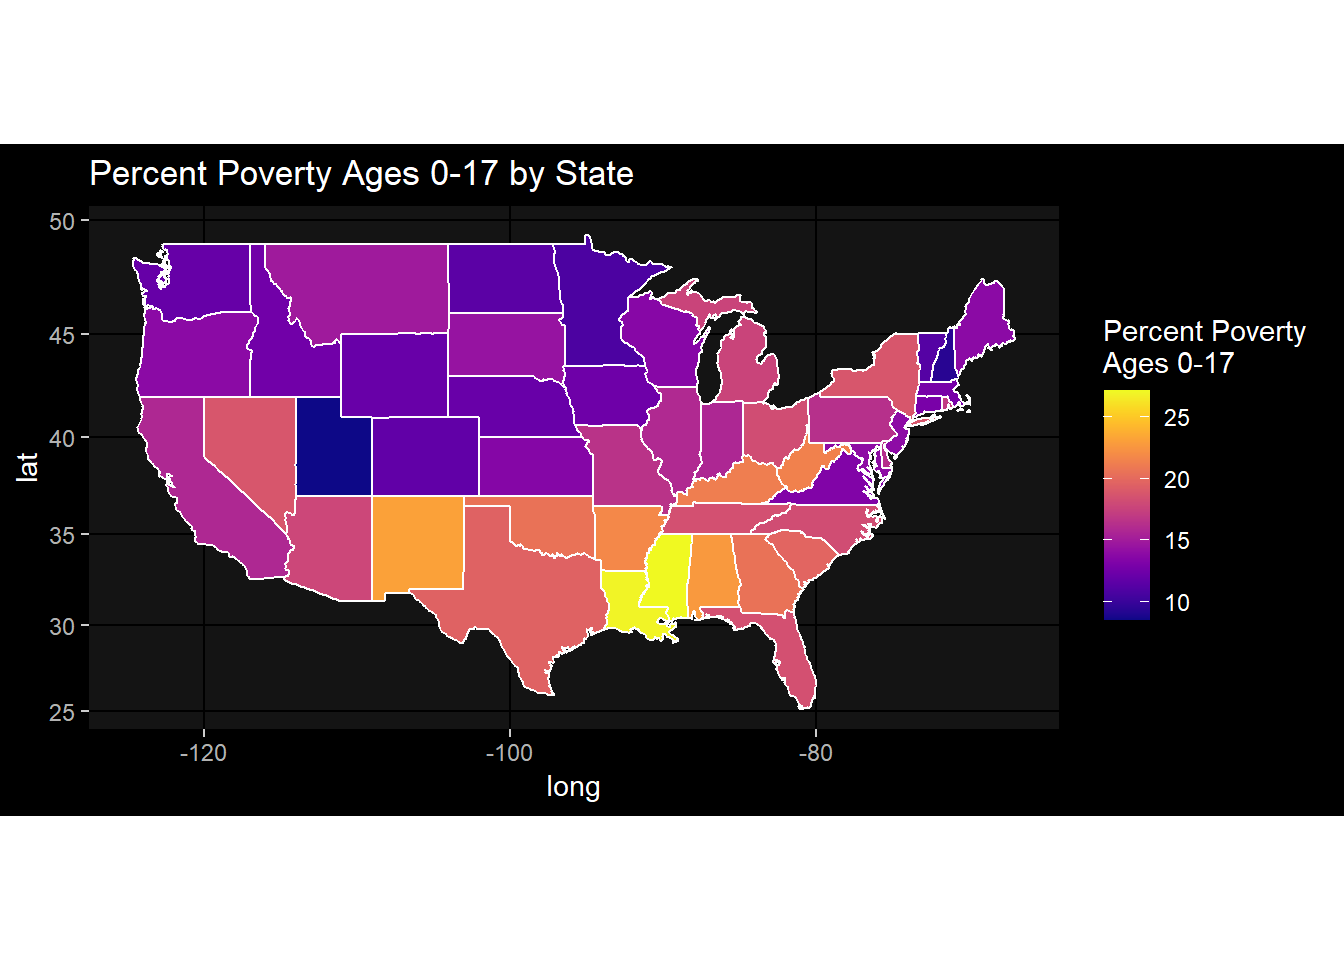
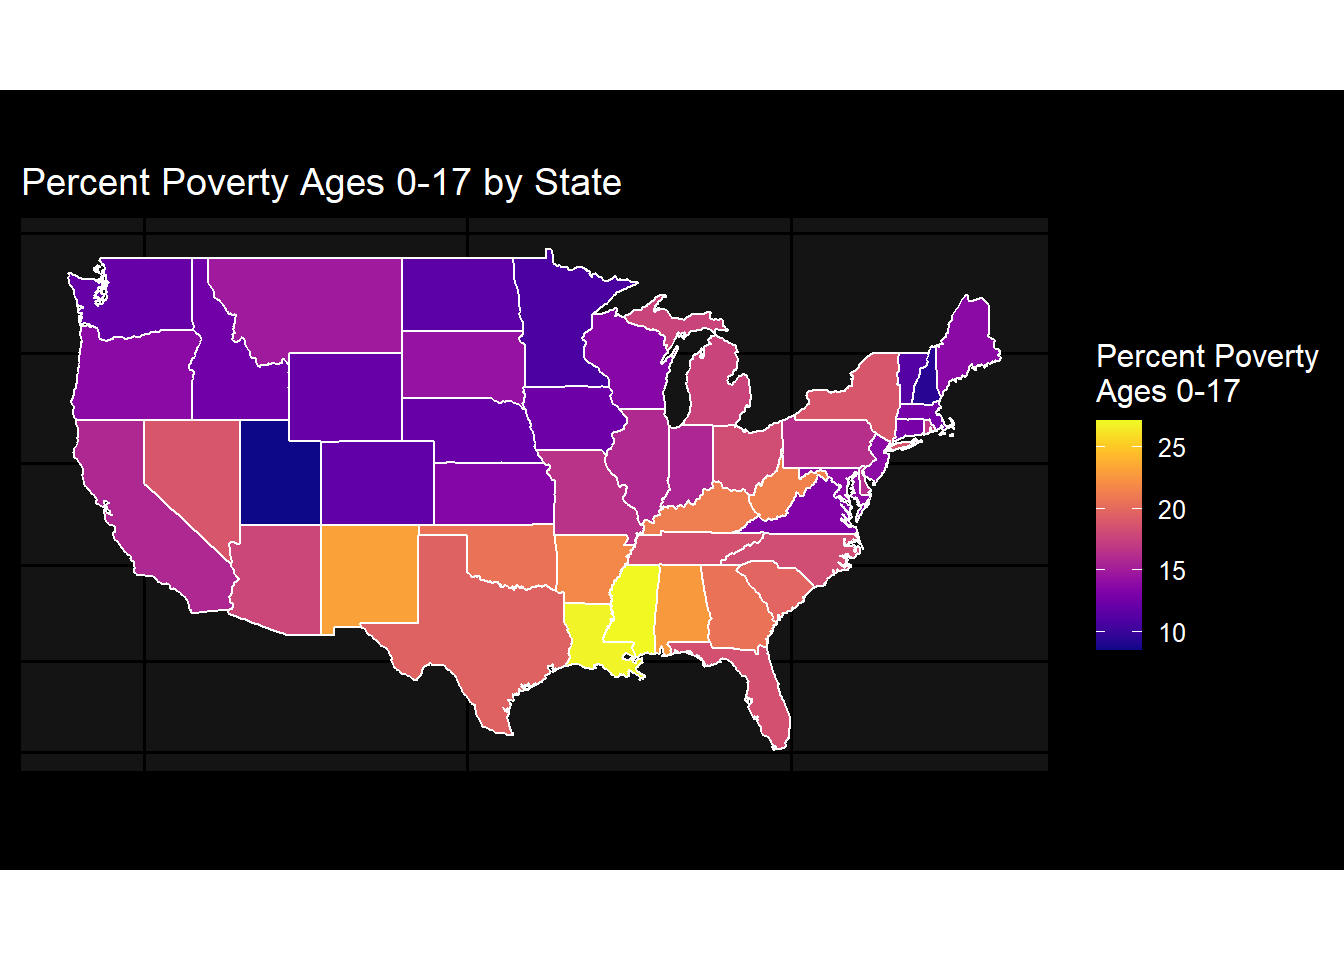
changed theme

diff --git a/docs/pages/maps/us_states.html b/docs/pages/maps/us_states.html
@@ -228,11 +228,16 @@ pre > code.sourceCode > span > a:first-child::before { text-decoration: underlin
 <span id="cb2-4"><a href="#cb2-4" aria-hidden="true" tabindex="-1"></a>                          <span class="at">group =</span> group)) <span class="sc">+</span></span>
 <span id="cb2-5"><a href="#cb2-5" aria-hidden="true" tabindex="-1"></a>  <span class="fu">geom_polygon</span>(<span class="fu">aes</span>(<span class="at">fill =</span> PCTPOVALL_2021), <span class="at">color =</span> <span class="st">"#fefefe"</span>) <span class="sc">+</span></span>
 <span id="cb2-6"><a href="#cb2-6" aria-hidden="true" tabindex="-1"></a>  <span class="fu">labs</span>(<span class="at">fill =</span> <span class="st">"Percent Poverty </span><span class="sc">\n</span><span class="st">All Ages"</span>) <span class="sc">+</span></span>
-<span id="cb2-7"><a href="#cb2-7" aria-hidden="true" tabindex="-1"></a>  <span class="fu">ggtitle</span>(<span class="st">"Percent Poverty by State"</span>) <span class="sc">+</span></span>
-<span id="cb2-8"><a href="#cb2-8" aria-hidden="true" tabindex="-1"></a>  <span class="fu">coord_map</span>() <span class="sc">+</span></span>
-<span id="cb2-9"><a href="#cb2-9" aria-hidden="true" tabindex="-1"></a>  <span class="fu">theme_void</span>() <span class="sc">+</span></span>
-<span id="cb2-10"><a href="#cb2-10" aria-hidden="true" tabindex="-1"></a>  <span class="fu">scale_fill_viridis</span>(<span class="at">option =</span> <span class="st">"C"</span>)<span class="sc">+</span></span>
-<span id="cb2-11"><a href="#cb2-11" aria-hidden="true" tabindex="-1"></a>  <span class="fu">dark_theme_gray</span>()</span></code><button title="Copy to Clipboard" class="code-copy-button"><i class="bi"></i></button></pre></div>
+<span id="cb2-7"><a href="#cb2-7" aria-hidden="true" tabindex="-1"></a>  <span class="fu">labs</span>(<span class="at">x =</span> <span class="fu">element_blank</span>(), <span class="at">y =</span> <span class="fu">element_blank</span>())<span class="sc">+</span></span>
+<span id="cb2-8"><a href="#cb2-8" aria-hidden="true" tabindex="-1"></a>  <span class="fu">ggtitle</span>(<span class="st">"Percent Poverty by State"</span>) <span class="sc">+</span></span>
+<span id="cb2-9"><a href="#cb2-9" aria-hidden="true" tabindex="-1"></a>  <span class="fu">coord_map</span>() <span class="sc">+</span></span>
+<span id="cb2-10"><a href="#cb2-10" aria-hidden="true" tabindex="-1"></a>  <span class="fu">theme_void</span>() <span class="sc">+</span></span>
+<span id="cb2-11"><a href="#cb2-11" aria-hidden="true" tabindex="-1"></a>  <span class="fu">scale_fill_viridis</span>(<span class="at">option =</span> <span class="st">"C"</span>)<span class="sc">+</span></span>
+<span id="cb2-12"><a href="#cb2-12" aria-hidden="true" tabindex="-1"></a>  <span class="fu">dark_theme_gray</span>(<span class="at">base_size =</span> <span class="dv">12</span>) <span class="sc">+</span> </span>
+<span id="cb2-13"><a href="#cb2-13" aria-hidden="true" tabindex="-1"></a>  <span class="fu">theme</span>(</span>
+<span id="cb2-14"><a href="#cb2-14" aria-hidden="true" tabindex="-1"></a>        <span class="at">axis.ticks =</span> <span class="fu">element_blank</span>(), </span>
+<span id="cb2-15"><a href="#cb2-15" aria-hidden="true" tabindex="-1"></a>        <span class="at">axis.text =</span> <span class="fu">element_blank</span>(), </span>
+<span id="cb2-16"><a href="#cb2-16" aria-hidden="true" tabindex="-1"></a>        <span class="at">plot.margin =</span> <span class="fu">unit</span>(<span class="fu">c</span>(<span class="dv">1</span>, <span class="dv">0</span>, <span class="dv">1</span>, <span class="dv">0</span>), <span class="st">"cm"</span>))</span></code><button title="Copy to Clipboard" class="code-copy-button"><i class="bi"></i></button></pre></div>
 <div class="cell-output-display">
 <div>
 <figure class="figure">
@@ -246,11 +251,16 @@ pre > code.sourceCode > span > a:first-child::before { text-decoration: underlin
 <span id="cb3-4"><a href="#cb3-4" aria-hidden="true" tabindex="-1"></a>                          <span class="at">group =</span> group)) <span class="sc">+</span></span>
 <span id="cb3-5"><a href="#cb3-5" aria-hidden="true" tabindex="-1"></a>  <span class="fu">geom_polygon</span>(<span class="fu">aes</span>(<span class="at">fill =</span> PCTPOV017_2021), <span class="at">color =</span> <span class="st">"#fefefe"</span>) <span class="sc">+</span></span>
 <span id="cb3-6"><a href="#cb3-6" aria-hidden="true" tabindex="-1"></a>  <span class="fu">labs</span>(<span class="at">fill =</span> <span class="st">"Percent Poverty </span><span class="sc">\n</span><span class="st">Ages 0-17"</span>) <span class="sc">+</span></span>
-<span id="cb3-7"><a href="#cb3-7" aria-hidden="true" tabindex="-1"></a>  <span class="fu">ggtitle</span>(<span class="st">"Percent Poverty Ages 0-17 by State"</span>) <span class="sc">+</span></span>
-<span id="cb3-8"><a href="#cb3-8" aria-hidden="true" tabindex="-1"></a>  <span class="fu">coord_map</span>() <span class="sc">+</span></span>
-<span id="cb3-9"><a href="#cb3-9" aria-hidden="true" tabindex="-1"></a>  <span class="fu">theme_void</span>() <span class="sc">+</span></span>
-<span id="cb3-10"><a href="#cb3-10" aria-hidden="true" tabindex="-1"></a>  <span class="fu">scale_fill_viridis</span>(<span class="at">option =</span> <span class="st">"C"</span>)<span class="sc">+</span></span>
-<span id="cb3-11"><a href="#cb3-11" aria-hidden="true" tabindex="-1"></a>  <span class="fu">dark_theme_gray</span>()</span></code><button title="Copy to Clipboard" class="code-copy-button"><i class="bi"></i></button></pre></div>
+<span id="cb3-7"><a href="#cb3-7" aria-hidden="true" tabindex="-1"></a>  <span class="fu">labs</span>(<span class="at">x =</span> <span class="fu">element_blank</span>(), <span class="at">y =</span> <span class="fu">element_blank</span>())<span class="sc">+</span></span>
+<span id="cb3-8"><a href="#cb3-8" aria-hidden="true" tabindex="-1"></a>  <span class="fu">ggtitle</span>(<span class="st">"Percent Poverty Ages 0-17 by State"</span>) <span class="sc">+</span></span>
+<span id="cb3-9"><a href="#cb3-9" aria-hidden="true" tabindex="-1"></a>  <span class="fu">coord_map</span>() <span class="sc">+</span></span>
+<span id="cb3-10"><a href="#cb3-10" aria-hidden="true" tabindex="-1"></a>  <span class="fu">theme_void</span>() <span class="sc">+</span></span>
+<span id="cb3-11"><a href="#cb3-11" aria-hidden="true" tabindex="-1"></a>  <span class="fu">scale_fill_viridis</span>(<span class="at">option =</span> <span class="st">"C"</span>)<span class="sc">+</span></span>
+<span id="cb3-12"><a href="#cb3-12" aria-hidden="true" tabindex="-1"></a>  <span class="fu">dark_theme_gray</span>(<span class="at">base_size =</span> <span class="dv">12</span>) <span class="sc">+</span> </span>
+<span id="cb3-13"><a href="#cb3-13" aria-hidden="true" tabindex="-1"></a>  <span class="fu">theme</span>(</span>
+<span id="cb3-14"><a href="#cb3-14" aria-hidden="true" tabindex="-1"></a>        <span class="at">axis.ticks =</span> <span class="fu">element_blank</span>(), </span>
+<span id="cb3-15"><a href="#cb3-15" aria-hidden="true" tabindex="-1"></a>        <span class="at">axis.text =</span> <span class="fu">element_blank</span>(), </span>
+<span id="cb3-16"><a href="#cb3-16" aria-hidden="true" tabindex="-1"></a>        <span class="at">plot.margin =</span> <span class="fu">unit</span>(<span class="fu">c</span>(<span class="dv">1</span>, <span class="dv">0</span>, <span class="dv">1</span>, <span class="dv">0</span>), <span class="st">"cm"</span>))</span></code><button title="Copy to Clipboard" class="code-copy-button"><i class="bi"></i></button></pre></div>
 <div class="cell-output-display">
 <div>
 <figure class="figure">
@@ -264,11 +274,16 @@ pre > code.sourceCode > span > a:first-child::before { text-decoration: underlin
 <span id="cb4-4"><a href="#cb4-4" aria-hidden="true" tabindex="-1"></a>                          <span class="at">group =</span> group)) <span class="sc">+</span></span>
 <span id="cb4-5"><a href="#cb4-5" aria-hidden="true" tabindex="-1"></a>  <span class="fu">geom_polygon</span>(<span class="fu">aes</span>(<span class="at">fill =</span> MEDHHINC_2021), <span class="at">color =</span> <span class="st">"#fefefe"</span>) <span class="sc">+</span></span>
 <span id="cb4-6"><a href="#cb4-6" aria-hidden="true" tabindex="-1"></a>  <span class="fu">labs</span>(<span class="at">fill =</span> <span class="st">"Estimated Median </span><span class="sc">\n</span><span class="st">Household Income"</span>) <span class="sc">+</span></span>
-<span id="cb4-7"><a href="#cb4-7" aria-hidden="true" tabindex="-1"></a>  <span class="fu">ggtitle</span>(<span class="st">"Estimated Median Household Income by State"</span>) <span class="sc">+</span></span>
-<span id="cb4-8"><a href="#cb4-8" aria-hidden="true" tabindex="-1"></a>  <span class="fu">coord_map</span>() <span class="sc">+</span></span>
-<span id="cb4-9"><a href="#cb4-9" aria-hidden="true" tabindex="-1"></a>  <span class="fu">theme_void</span>() <span class="sc">+</span></span>
-<span id="cb4-10"><a href="#cb4-10" aria-hidden="true" tabindex="-1"></a>  <span class="fu">scale_fill_viridis</span>(<span class="at">option =</span> <span class="st">"D"</span>, <span class="at">direction =</span> <span class="sc">-</span><span class="dv">1</span>)<span class="sc">+</span></span>
-<span id="cb4-11"><a href="#cb4-11" aria-hidden="true" tabindex="-1"></a>  <span class="fu">dark_theme_gray</span>()</span></code><button title="Copy to Clipboard" class="code-copy-button"><i class="bi"></i></button></pre></div>
+<span id="cb4-7"><a href="#cb4-7" aria-hidden="true" tabindex="-1"></a>  <span class="fu">labs</span>(<span class="at">x =</span> <span class="fu">element_blank</span>(), <span class="at">y =</span> <span class="fu">element_blank</span>())<span class="sc">+</span></span>
+<span id="cb4-8"><a href="#cb4-8" aria-hidden="true" tabindex="-1"></a>  <span class="fu">ggtitle</span>(<span class="st">"Estimated Median Household Income by State"</span>) <span class="sc">+</span></span>
+<span id="cb4-9"><a href="#cb4-9" aria-hidden="true" tabindex="-1"></a>  <span class="fu">coord_map</span>() <span class="sc">+</span></span>
+<span id="cb4-10"><a href="#cb4-10" aria-hidden="true" tabindex="-1"></a>  <span class="fu">theme_void</span>() <span class="sc">+</span></span>
+<span id="cb4-11"><a href="#cb4-11" aria-hidden="true" tabindex="-1"></a>  <span class="fu">scale_fill_viridis</span>(<span class="at">option =</span> <span class="st">"D"</span>, <span class="at">direction =</span> <span class="sc">-</span><span class="dv">1</span>)<span class="sc">+</span></span>
+<span id="cb4-12"><a href="#cb4-12" aria-hidden="true" tabindex="-1"></a>  <span class="fu">dark_theme_gray</span>(<span class="at">base_size =</span> <span class="dv">12</span>) <span class="sc">+</span> </span>
+<span id="cb4-13"><a href="#cb4-13" aria-hidden="true" tabindex="-1"></a>  <span class="fu">theme</span>(</span>
+<span id="cb4-14"><a href="#cb4-14" aria-hidden="true" tabindex="-1"></a>        <span class="at">axis.ticks =</span> <span class="fu">element_blank</span>(), </span>
+<span id="cb4-15"><a href="#cb4-15" aria-hidden="true" tabindex="-1"></a>        <span class="at">axis.text =</span> <span class="fu">element_blank</span>(), </span>
+<span id="cb4-16"><a href="#cb4-16" aria-hidden="true" tabindex="-1"></a>        <span class="at">plot.margin =</span> <span class="fu">unit</span>(<span class="fu">c</span>(<span class="dv">1</span>, <span class="dv">0</span>, <span class="dv">1</span>, <span class="dv">0</span>), <span class="st">"cm"</span>))</span></code><button title="Copy to Clipboard" class="code-copy-button"><i class="bi"></i></button></pre></div>
 <div class="cell-output-display">
 <div>
 <figure class="figure">
